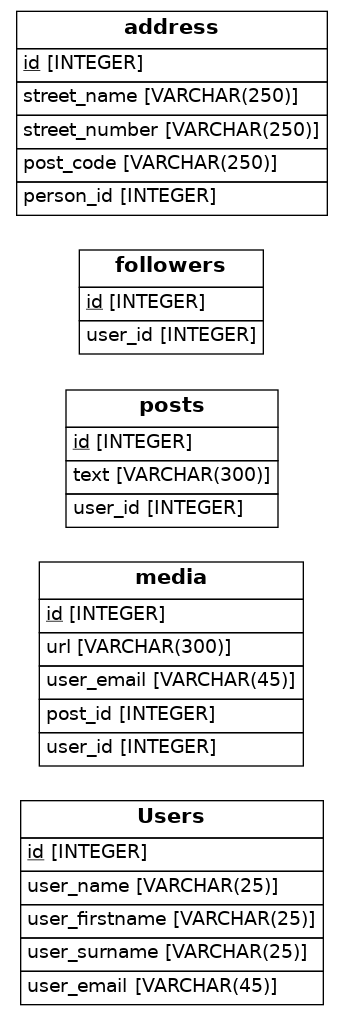
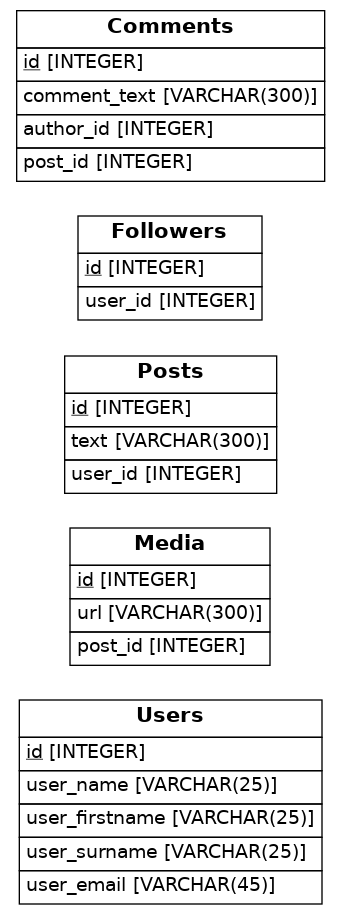
inicio relaciones, no se muestran aun

Changed region(s): [[0.0294, 0.0, 0.9706, 1.0]]

diff --git a/src/models.py b/src/models.py
@@ -9,7 +9,7 @@ from eralchemy import render_er
 Base = declarative_base()
 
 class User(Base):
-    __tablename__ = 'Users'
+    __tablename__ = 'user'
     # Here we define columns for the table person
     # Notice that each column is also a normal Python instance attribute.
     id = Column(Integer, primary_key=True)
@@ -22,38 +22,45 @@ class Media(Base):
     __tablename__ = 'media'
     id = Column(Integer, primary_key=True)
     url = Column(String(300), nullable=False)
-    user_email= Column(String(45), nullable=False, unique=True)
     post_id = Column(Integer, ForeignKey('post.id'))
-    user_id = Column(Integer, ForeignKey('user.id'))
-    post = relationship('Post')
+    post = relationship(Post)
 
 class Post(Base):
-    __tablename__ = 'posts'
+    __tablename__ = 'post'
     id = Column(Integer, primary_key=True)
     text= Column(String(300), nullable=False)
     user_id = Column(Integer, ForeignKey('user.id'))
-    # post = relationship('Post')
 
 class Follower(Base):
-    __tablename__ = 'followers'
+    __tablename__ = 'follower'
     id = Column(Integer, primary_key=True)
     user_id = Column(Integer, ForeignKey('user.id'))
-    user = relationship('user')
+    user = relationship(User)
 
-
-class Address(Base):
-    __tablename__ = 'address'
-    # Here we define columns for the table address.
-    # Notice that each column is also a normal Python instance attribute.
+class Comment(Base):
+    __tablename__ = 'comment'
     id = Column(Integer, primary_key=True)
-    street_name = Column(String(250))
-    street_number = Column(String(250))
-    post_code = Column(String(250), nullable=False)
-    person_id = Column(Integer, ForeignKey('person.id'))
-    person = relationship('Person')
+    comment_text= Column(String(300), nullable=False)
+    author_id = Column(Integer, ForeignKey('user.id'))
+    post_id = Column(Integer, ForeignKey("post.id"))
+    user = relationship(User)
+    post = relationship(Post)
 
-    def to_dict(self):
-        return {}
+
+
+# class Address(Base):
+#     __tablename__ = 'address'
+#     # Here we define columns for the table address.
+#     # Notice that each column is also a normal Python instance attribute.
+#     id = Column(Integer, primary_key=True)
+#     street_name = Column(String(250))
+#     street_number = Column(String(250))
+#     post_code = Column(String(250), nullable=False)
+#     person_id = Column(Integer, ForeignKey('person.id'))
+#     person = relationship('Person')
+
+#     def to_dict(self):
+#         return {}
 
 ## Draw from SQLAlchemy base
 try:
